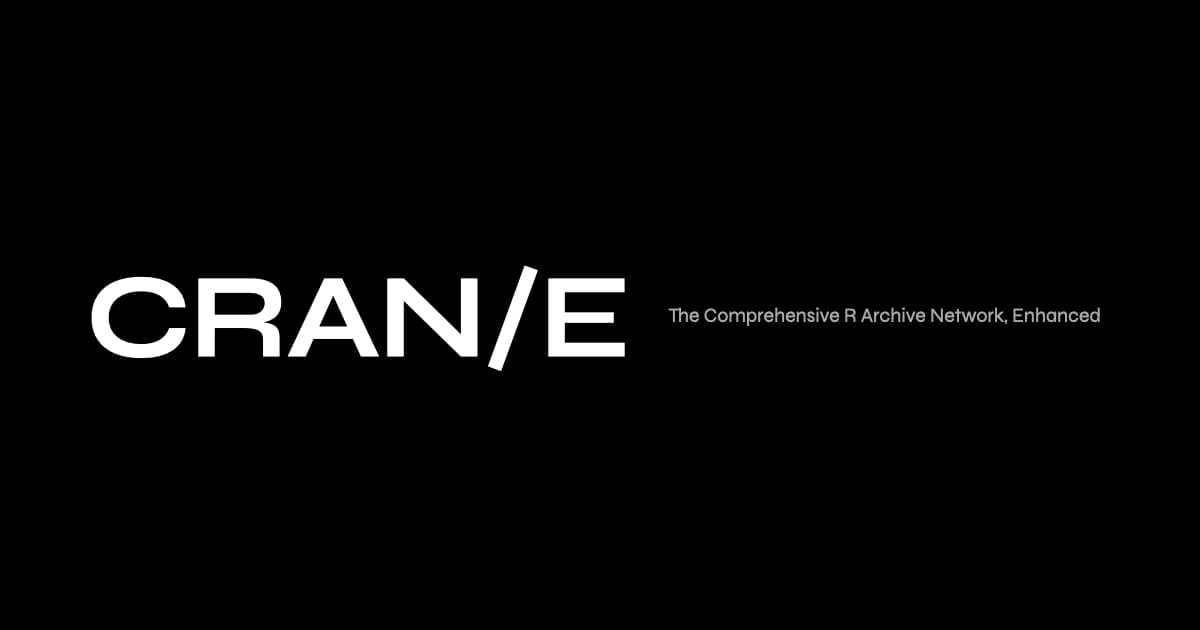
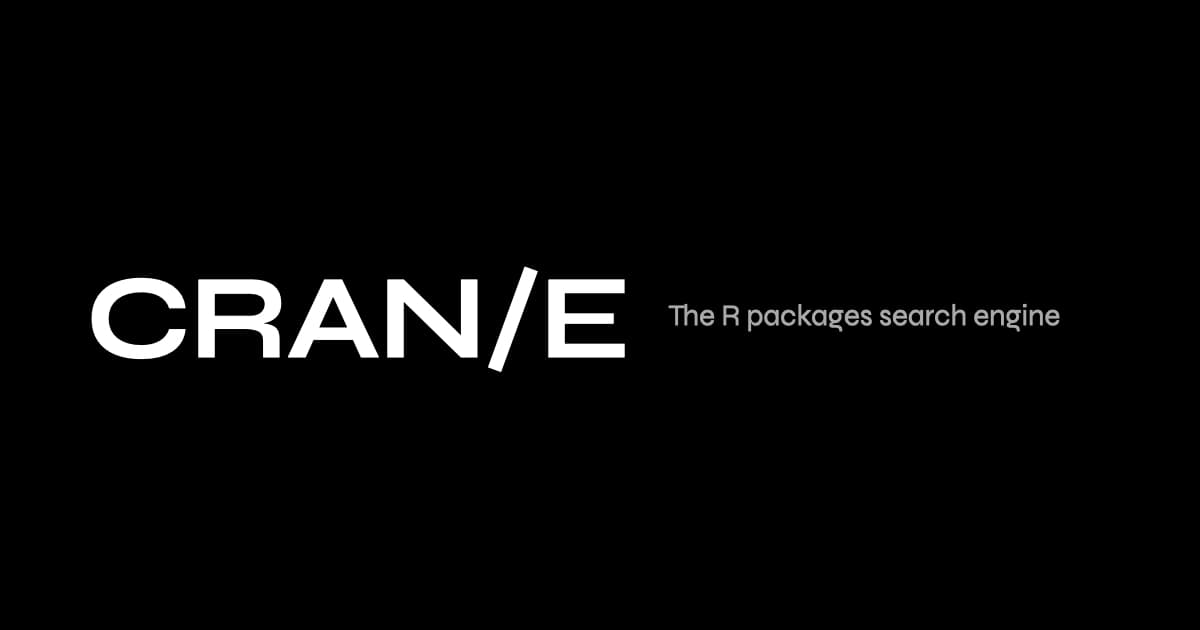
chore: update og data

diff --git a/web/src/lib/seo/views/BaseMeta.svelte b/web/src/lib/seo/views/BaseMeta.svelte
@@ -13,6 +13,10 @@
   title="CRAN/E | {title}"
   {description}
   canonical={url}
+  twitter={{
+    handle: '@CodesFlaming',
+    cardType: 'summary_large_image'
+  }}
   openGraph={{
     title: `CRAN/E | ${title}`,
     description,
@@ -20,7 +24,7 @@
     url,
     images: [
       {
-        url: 'https://www.cran-e.com/images/og/cover-02.jpg',
+        url: 'https://www.cran-e.com/images/og/cover-01.jpg',
         width: 1200,
         height: 630,
         alt: 'CRAN/E logo in written form, white text on a black background'
